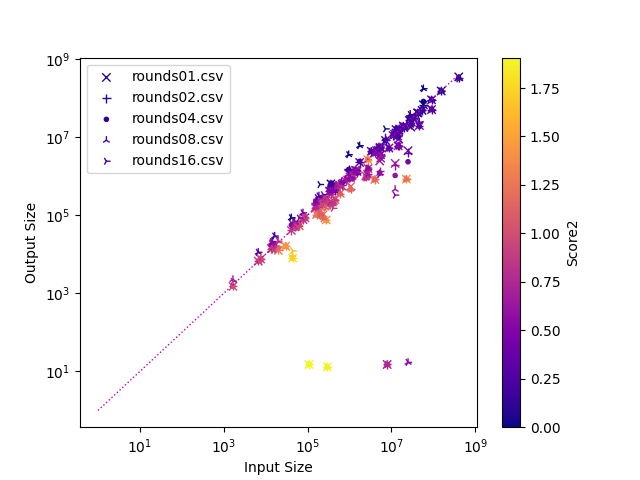
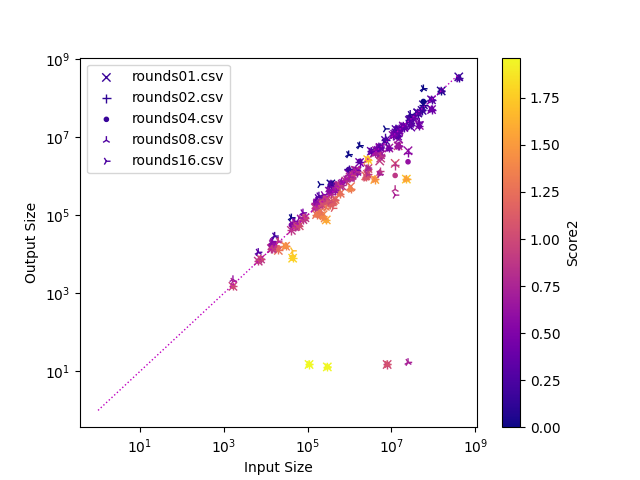
runtime score

diff --git a/sat_heuristics/bench/scatter.py b/sat_heuristics/bench/scatter.py
@@ -4,6 +4,7 @@ import argparse
 import numpy as np
 import pandas as pd
 import matplotlib.pyplot as plt
+import math
 
 
 def scatter(files, cfunc, clabel):
@@ -41,6 +42,7 @@ def score(isize, osize, time, result):
     osize = np.where(result != "UNKNOWN", 1, osize)
     # set minimum to -1 and shift by 1 to get values between 0 and 2
     reduction = (np.maximum(-1, (1 - (osize / isize))) + 1)
+    # divide by runtime
     return reduction / (time + 1)
 
 def score2(isize, osize, time, result):
@@ -48,14 +50,19 @@ def score2(isize, osize, time, result):
     osize = np.where(result != "UNKNOWN", 1, osize)
     # set minimum to -1 and shift by 1 to get values between 0 and 2
     reduction = (np.maximum(-1, (1 - (osize / isize))) + 1)
-    return reduction / (np.log(time + 1) + 1)
+    # divide by log of runtime
+    return reduction / np.log(time + math.e)
 
 def score3(isize, osize, time, result):
     # change output size to 1 if instance is solved
     osize = np.where(result != "UNKNOWN", 1, osize)
     # set minimum to -1 and shift by 1 to get values between 0 and 2
-    reduction = (np.maximum(-1, (1 - np.power((osize / isize), np.log(isize)))) + 1)
-    return reduction / (np.log(time + 1) + 1)
+    # use log of input size as exponent of relative reduction (=increases relative reduction score for larger instances)
+    reduction = np.maximum(-1, (1 - np.power((osize / isize), np.log(isize)))) + 1
+    # calculate runtime score between 1 and 2
+    runtime = 2 - 1 / np.log(time + math.e)
+    # divide reduction by runtime score
+    return reduction / runtime
 
 def main():
     parser = argparse.ArgumentParser(description='Process CSV files.')
